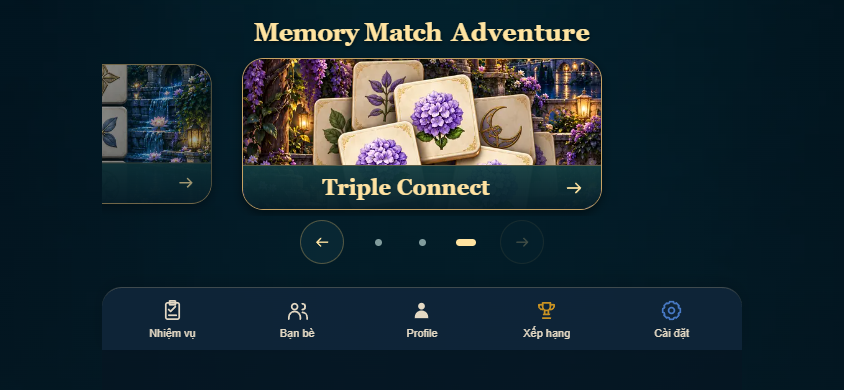
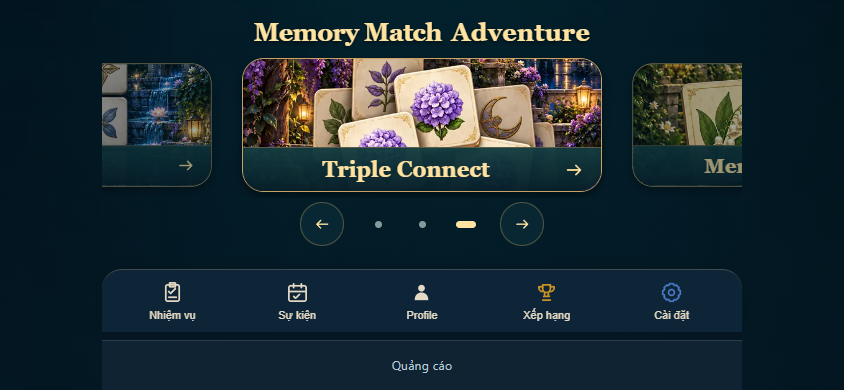
test: verify looping home and versioned portrait artwork

diff --git a/tests/ui/home-menu.spec.js b/tests/ui/home-menu.spec.js
@@ -19,6 +19,8 @@ for (const viewport of [{ width: 320, height: 740 }, { width: 412, height: 915 }
   const root = page.locator('.game-selector'), choices = root.locator('.game-selector__choice');
   await expect(choices).toHaveCount(3); await expect(root.locator('.menu-description')).toHaveCount(0);
   await expect.poll(() => root.locator('.game-selector__art').evaluateAll(els => els.every(im => im.complete && im.naturalWidth > 0))).toBe(true);
+  await expect(root.locator('[data-game-id="memory-match"] img')).toHaveAttribute('src', /memory-match-v2\.webp$/);
+  expect(await root.locator('[data-game-id="memory-match"] img').evaluate(im => [im.naturalWidth, im.naturalHeight])).toEqual([576, 768]);
   const footer = await root.locator('.adventure-footer').boundingBox();
   expect(footer.width).toBe(Math.min(viewport.width, 640));
   for (let i = 0; i < 3; i++) {

diff --git a/js/gameSelector.js b/js/gameSelector.js
@@ -23,7 +23,7 @@ import { mountAdventureMap } from "./adventureMap.js";
 import { decorateAdventureMenu } from "./appNavigation.js";
 
 const HOME_ART = Object.freeze({
-  'memory-match': 'memory-match.webp',
+  'memory-match': 'memory-match-v2.webp',
   'link-connect': 'link-connect.webp',
   'triple-connect': 'triple-connect.webp',
 });

diff --git a/scripts/prepare-home-menu-assets.py b/scripts/prepare-home-menu-assets.py
@@ -8,11 +8,11 @@ root = Path(__file__).resolve().parents[1]
 source = root / 'docs/design/home-assets/masters'
 target = root / 'public/assets/images/home'
 target.mkdir(parents=True, exist_ok=True)
-assets = {'memory-match': ('memory-match-v2.png', (576, 768)), 'link-connect': ('link-connect-v1.png', (576, 720)), 'triple-connect': ('triple-connect-v1.png', (576, 720))}
+assets = {'memory-match': ('memory-match-v2.png', 'memory-match-v2.webp', (576, 768)), 'link-connect': ('link-connect-v1.png', 'link-connect.webp', (576, 720)), 'triple-connect': ('triple-connect-v1.png', 'triple-connect.webp', (576, 720))}
 records = []
-for game, (filename, size) in assets.items():
+for game, (filename, runtime, size) in assets.items():
     master = source / filename
-    output = target / f'{game}.webp'
+    output = target / runtime
     with Image.open(master) as original:
         original_size = original.size
         image = original.convert('RGB')

diff --git a/CONTEXT.md b/CONTEXT.md
@@ -6,19 +6,21 @@ Người dùng đã chọn tự xuất bản website và thông điệp AdMob ng
 
 ## Sản phẩm
 
+- `HOME_CAROUSEL_LOOP_PLAN.md` hoàn tất: Home nối vòng cảhai chiều bằng cùng3node; modulo cho arrows/keyboard, DOM rebase tại native scrollend và giữ focus, không clone/RAF loop. Memory được imagegen tích hợp vẽ lại portraitv2 576×768, URL có phiên bản để tránh cache ngang cũ; tổng3ảnh323.366bytes. Root19/19, review14/14 +cache1/1, regression31ca có kết quả đạt, gate ảnh/UI cuối14/14, check/build web/Android pass. Phase1commitabc5696; QA: `docs/design/home-carousel/QA.md`. Không đổi save/API/catalog, không deploy/APK; S22 Ultra thật còn chờ.
+
 - Web đã bổ sung banner tĩnh **Quảng cáo mô phỏng** ở Home/map theo yêu cầu16/10, dùng chung navigation/blocker/lifecycle với Android. Vùng60px + gap28px, ẩn modal/tab/gameplay/nền/nhập chữ; không gọi Google hoặc đổi save/Auth/API. Native regression9/9, web review độc lập4/4, production smoke1/1, check/build web/build Android đạt; ảnh và kết quả ở `docs/ads/QA.md`. Chưa deploy, APK đã bàn giao giữ nguyên.
 
 - Tab Sự kiện thay Bạn bè ngày2026-10-16: action events, tiêu đề/nhãn Sự kiện, biểu tượng lịch. Hiện Sắp ra mắt, chưa triển khai tính năng sự kiện. Giữ nền courtyard hiện có và lifecycle chung; không đổi save/schema/Auth. UI36/36, review độc lập3/3, check/build web/Android pass; QA tại `docs/design/app-tabs/QA.md`.
 
 - Profile đã bỏ dòng “Tính từ…” theo yêu cầu ngày2026-10-16; chỉ hiển thị ngày tham gia/tạo hồ sơ và tổng thời gian chơi. trackedSince/counter vẫn giữ nội bộ, không đổi service/schema/save. UI5/5, review độc lập1/1, check/build web/Android pass. Ảnh và bằng chứng ở `docs/design/app-tabs/QA.md`.
 
-- `HOME_CAROUSEL_PLAN.md` hoàn tất: Home một trò ở giữa, vuốt trái/phải, hé trò hai bên; mũi tên/chấm và bàn phím. Native scroll-snap, scope sở hữu frame/observer/listener, không clone/tự chạy; giữ art/save/catalog/navigation và nội dung tab/popup. Phase1 commit665dafb. Home/registry17ca, regression52/52, review cuối12/12 và touch lặp5/5 đạt; check/build web/Android pass. QA: `docs/design/home-carousel/QA.md`. Không còn gate triển khai active; S22 Ultra thật còn chờ.
+- `HOME_CAROUSEL_PLAN.md` là hồ sơ carousel ban đầu (đã nối vòng theo kế hoạch mới): Home một trò ở giữa, vuốt trái/phải, hé trò hai bên; mũi tên/chấm và bàn phím. Native scroll-snap, scope sở hữu frame/observer/listener, không clone/tự chạy; giữ art/save/catalog/navigation và nội dung tab/popup. Phase1 commit665dafb. Home/registry17ca, regression52/52, review cuối12/12 và touch lặp5/5 đạt; check/build web/Android pass. QA: `docs/design/home-carousel/QA.md`. Không còn gate triển khai active; S22 Ultra thật còn chờ.
 
 - Popup Thử thách/Vô tận của cả3trò đã đồng bộ với popup màn Hành trình: xem thông tin màn1 rồi bấm Chơi, không chọn độ khó; thời gian/mục tiêu/gợi ý/khay/chủ đề theo config/profile. Vô tận ghi Không giới hạn, không lặp popup intro. Hủy không đổi save/session/độ khó thường; submit có guard/retry. QA45ca có kết quả đạt, review độc lập14/14; check/build web/build Android pass. Không đổi save schema/luật chơi. Chi tiết: `docs/design/special-mode-preview/QA.md`.
 
 - Active: `ADS_APK_TEST_PLAN.md` — phase0–4 đã đạt: chỉ banner Home/map, giữ `com.memorymatch.adventure`, bảo vệ trẻ em cho mọi người chơi, không hỏi tuổi/không cá nhân hóa, nội dung G. Unit15/15, UI71/71 + chạy lại ads9/9, check/build web/Android/APK và review độc lập đạt. Không đổi save/API/Auth. APK debug đã tạo/cài giả lập; phase5 còn chờ thông điệp AdMob riêng và trang quyền riêng tư công khai: SDK hiện chặn request vì app chưa có form. Đã xác nhận đúng App ID/unit và đặt mức G riêng trên AdMob; không deploy website. S22 Ultra/Test Ad thật/Auth APK/hiệu suất chưa xác minh. Chi tiết `docs/ads/QA.md`, hướng dẫn dễ hiểu `docs/ads/HUONG_DAN_THU_APK.md`.
 
-- `HOME_MENU_IMPLEMENTATION_PLAN.md` là hồ sơ Home bố cục1+2 ngày2026-10-15, đã được thay bằng carousel ngày2026-10-16. Ba WebP riêng tổng349.418bytes tiếp tục dùng; nguồn art ở `docs/design/home-assets/README.md`, QA cũ ở `docs/design/home-menu/QA.md`. Ornament ảnh trên pause popup đã gỡ theo yêu cầu.
+- `HOME_MENU_IMPLEMENTATION_PLAN.md` là hồ sơ Home bố cục1+2 ngày2026-10-15, đã được thay bằng carousel ngày2026-10-16. Link/Triple tiếp tục dùng; Memory hiện thay portraitv2 (tổng3ảnh323.366bytes); nguồn art ở `docs/design/home-assets/README.md`, QA cũ ở `docs/design/home-menu/QA.md`. Ornament ảnh trên pause popup đã gỡ theo yêu cầu.
 
 - Sheet12vùng nền trò/popup/tiêu đề/khung ở `docs/design/home-assets/README.md` chỉ là nguồn tham khảo; runtime Home dùng ba tranh riêng có master lớn hơn, không dùng sheet làm nền cả màn. Carousel hiện không dùng flourish tiêu đề, không tạo thêm art.
 

diff --git a/docs/design/home-carousel/QA.md b/docs/design/home-carousel/QA.md
@@ -2,7 +2,7 @@
 
 ## Kết quả
 
-Một trò nằm giữa, hé trò hai bên, vuốt trái/phải để đổi. Bấm card mở đúng bản đồ; mũi tên/chấm và bàn phím là phương án tương đương. Không thêm hướng dẫn hoặc thuật ngữ nội bộ vào sản phẩm. Reuse3WebP cũ349.418bytes, không sinh thêm ảnh; bỏ flourish Home, đơn giản viền và nhãn. Dock/ad slot, tab/popup, catalog và save không đổi.
+Một trò nằm giữa, hé trò hai bên, vuốt trái/phải để đổi. Bấm card mở đúng bản đồ; mũi tên/chấm và bàn phím là phương án tương đương. Không thêm hướng dẫn hoặc thuật ngữ nội bộ vào sản phẩm. Home hiện nối vòng hai chiều bằng cùng3node; Memory đã vẽ lại portraitv2, tổng3WebP323.366bytes; bỏ flourish Home, đơn giản viền và nhãn. Dock/ad slot, tab/popup, catalog và save không đổi.
 
 ## Phương án và ownership
 
@@ -13,7 +13,7 @@ Dùng native scroll-snap thay custom drag để trình duyệt sở hữu moment
 - Home12/12 + registry5/5 đạt. Native CDP touch swipe trái→trái→phải chọn đúng trò mà không mở map; arrows/dots/Arrow/Home/End, Enter, resize và30lần đổi nhanh.
 - 320×740,412×915,844×390,1024×900: game chính nằm đúng tâm, đầy đủ tên và controls, không tràn wrapper hoặc chồng dock.320×568/568×320: title và controls đều cuộn tới được.
 - Fixture4trò vào cùng carousel; lỗi tải art vẫn có tên/nút và bàn phím mở đúng game.
-- Reduced-motion và normal-motion, điều hướng giữa transition đều cleanup. [30cycles](qa/home-30-cycles.json):28listener/0timer/0frame/0animation khi nghỉ; owner cũ về0, progress không đổi, một Home/ba card.
+- Reduced-motion và normal-motion, điều hướng giữa transition đều cleanup. [30cycles](qa/home-30-cycles.json):26listener/0timer/0frame/0animation khi nghỉ; owner cũ về0, progress không đổi, một Home/ba card.
 - Lỗi phát hiện và sửa: carousel co theo intrinsic-width do wrapper align center cũ → explicit width/stretch; padding title cộng chiều rộng → border-box và assertion tâm/tràn; center dọc có nguy cơ clip trên viewport thấp → auto margins, overflow an toàn.
 - Hồi quy52/52 đạt: app-tabs, menu.landscape, navigation-screens, adventure-map; tab nền/exit/dock, cả3game và6lựa chọn mode special giữ đúng hành vi.
 - Lượt review đầu có một lần gesture test bắt vị trí giữa quán tính. Helper nay đăng ký/chờ native scrollend sau mỗi lần vuốt rồi mới kiểm tâm/trò cuối; vẫn giữ yêu cầu đúng trò kế bên, không sleep hoặc nới assertion. Lặp5/5 đạt, runtime không đổi.
@@ -25,3 +25,13 @@ Dùng native scroll-snap thay custom drag để trình duyệt sở hữu moment
 Cổng cuối: `npm run check`, `npm run build`, `npm run build:android` đều exit0. `git diff --check` đạt; không đổi API/schema/save.
 
 Không deploy hoặc build APK; S22 Ultra thật còn chờ, không tuyên bố FPS thiết bị từ kiểm tra desktop.
+
+## Nối vòng và ảnh portrait v2 — 2026-10-16
+
+Logical index giữ thứ tự catalog, DOM xoay khi native scrollend để đưa trò đang xem về giữa mà không clone. Arrows/ArrowLeft/Right modulo qua hai đầu; Home/End vẫn logical first/last. Chỉ reorder khi cần, resize giữ lựa chọn, hidden track không cập nhật từ geometry0. Bỏ focus→select listener để không reparent target trước pointerup; warm và explicit keyboard focus giữ nguyên. Sau rebase, focus trong track theo trò đang chọn. Không timer/loop RAF; scrollend cùng vị trí không phát sinh vòng lặp mới.
+
+Home14+registry5 đạt19/19;14native swipes (7mỗi chiều) qua cảhai ranh giới, tap hai sidepeek với normal-motion mở đúng game.100forward+100backward giữ nguyên3node, resource về baseline. Review độc lập14/14 approve. Ảnh mới đúng576×768/108670bytes; src versioned v2 +natural size đạt4/4viewport và review thêm1/1. Ảnh cũ ngang bị cắt đã được thay, xem [Memory412](qa/home-412-memory-match.png) và [landscape](qa/home-844-memory-match.png).
+
+Regression31ca có kết quả đạt:30lần đầu,1ca kết thúc context bị ENOENT do file trace trong test-results bị lượt chạy song song dọn. Không có assertion UI fail; chạy lại ca đó bằng thư mục TEMP riêng1/1 đạt. Các module/quy tắc quảng cáo do task khác quản lý, chỉ kiểm tương thích, không sửa trong task này. Test phía review cũng lưu outputTEMP riêng.
+
+Gate cuối sau cập nhật URLv2 và nhãn Quảng cáo của task song song: Home14/14 đạt; ảnh bàn giao đã xem, không còn từ chỉ trạng thái thử nghiệm. npm run check (gồm15ads unit), npm run build và npm run build:android đều exit0. Một lượt đo Triple p95=23.37ms vượt20ms trong lúc chạy song song; không sửa script/ngưỡng, đo riêng19.99ms đạt và fullcheck cuối19.48ms đạt. Đây là Node desktop, không phải FPS mobile. git diff --check đạt; không đổi API/schema/save/catalog.

diff --git a/ARCHITECTURE.md b/ARCHITECTURE.md
@@ -197,7 +197,7 @@ Pair snapshot giữ seed/theme, bàn thật, score/moves/misses/matched, lucky h
 
 `gameExitDialog.js` giữ pause/handoff owner của ba game. Tiếp tục dùng default close/onClose; Chơi lại/Lượt mới và Thoát game giữ async busy guard và callback cũ. Cài đặt chỉ handoff sau close. `styles/modals.css` sở hữu palette dialog Vườn đêm, nút44px, close/focus/reduced-motion và pause layout; ornament ảnh trong pause đã gỡ theo yêu cầu người dùng, tiêu đề thu gọn, không thêm ảnh hay animation loop. Exit bản đồ vẫn thuộc navigation/header, góc56×60px và safe-area, không nằm trong map scroll.
 
-Header/exit chung áp dụng mọi `adventure-screen[data-screen]`, gồm Cửa hàng/Bộ sưu tập; không giữ whitelist khiến screen mới rơi về nút tròn. `styles/shop.css` sở hữu slot Xu ở giữa header, giới hạn chiều rộng số dài để không chạm tên/nút thoát; số và accessible label giữ đúng nguồn. `mainmenu.js` vẫn dùng gameId cho catalog/equip, chỉ bỏ tên game lặp trong title Bộ sưu tập. Home hướng1 dùng native buttons/DOM title với ba ảnh WebP trong `public/assets/images/home/`; `styles/home-menu.css` là owner selector duy nhất, thay các selector Home cũ trong menu/adventure. Scope trang sở hữu click/focus/pointerenter/error listener; ảnh lỗi được ẩn, tên và nút vẫn sử dụng được. Home hiện dùng native horizontal scroll-snap: một trò ở giữa, hé trò hai bên, thêm trò vào cùng dãy không clone. Native browser sở hữu touch/momentum/cancel, không custom drag/timer hoặc RAF loop. Scope sở hữu các listener, RAF gộp scroll khi có sự kiện và ResizeObserver có disconnect; chỉ số lấy theo tâm card trong track, transform không tham gia vị trí snap. Mũi tên/chấm/ArrowLeft/ArrowRight/Home/End có cùng select path, roving tabIndex và focus. Resize giữ trò đang chọn; reduced-motion tắt transition. Wrapper giới hạn640px và auto margins cho màn thấp cuộn tới cả title/controls. Master PNG ở docs, generator `scripts/prepare-home-menu-assets.py` đóng gói tổng349.418bytes; không đổi navigation/save/catalog.
+Header/exit chung áp dụng mọi `adventure-screen[data-screen]`, gồm Cửa hàng/Bộ sưu tập; không giữ whitelist khiến screen mới rơi về nút tròn. `styles/shop.css` sở hữu slot Xu ở giữa header, giới hạn chiều rộng số dài để không chạm tên/nút thoát; số và accessible label giữ đúng nguồn. `mainmenu.js` vẫn dùng gameId cho catalog/equip, chỉ bỏ tên game lặp trong title Bộ sưu tập. Home hướng1 dùng native buttons/DOM title với ba ảnh WebP trong `public/assets/images/home/`; `styles/home-menu.css` là owner selector duy nhất, thay các selector Home cũ trong menu/adventure. Scope trang sở hữu click/focus/pointerenter/error listener; ảnh lỗi được ẩn, tên và nút vẫn sử dụng được. Home hiện dùng native horizontal scroll-snap nối vòng: một trò ở giữa, hé trò hai bên; logical index theo catalog, DOM xoay tại scrollend để đưa lựa chọn về slot giữa, không clone/tăng node theo số vòng. Arrows/Left/Right dùng modulo, Home/End vẫn logical first/last. Focus pointer chỉ warm, không reorder trước pointerup; explicit keyboard select+focus và focus sau rebase giữ ổn định. Hidden track không đọc geometry0 để đổi lựa chọn. Native browser sở hữu touch/momentum/cancel, không custom drag/timer hoặc RAF loop. Scope sở hữu các listener, RAF gộp scroll khi có sự kiện và ResizeObserver có disconnect; chỉ số lấy theo tâm card trong track, transform không tham gia vị trí snap. Mũi tên/chấm/ArrowLeft/ArrowRight/Home/End có cùng select path, roving tabIndex và focus. Resize giữ trò đang chọn; reduced-motion tắt transition. Wrapper giới hạn640px và auto margins cho màn thấp cuộn tới cả title/controls. Master PNG ở docs, generator `scripts/prepare-home-menu-assets.py` đóng gói tổng323.366bytes; Memory portraitv2 576×768 có URL memory-match-v2.webp để tránh immutable/cache-first giữ bản ngang cũ; không đổi navigation/save/catalog.
 
 Popup trước ván: `adventureMap.js` dùng cùng `adventure-level-modal`/owner cho màn thường và Thử thách/Vô tận. Special cố định màn1, không có radio độ khó; chỉ nút Chơi gọi launch với skipIntro để tránh popup trùng. `adventurePreview.js` là đọc thuần, hỗ trợ sáu mode từ config/layout/stage, không ghi item/session hoặc tiến độ. Hủy giữ view.mode Hành trình và bản lưu; modal owner hủy listener/placement/focus, submit guard giữ đường retry khi launch thất bại.
 

diff --git a/HOME_CAROUSEL_LOOP_PLAN.md b/HOME_CAROUSEL_LOOP_PLAN.md
@@ -5,6 +5,8 @@ Phạm vi: vuốt/mũi tên/bàn phím qua ranh giới đầu-cuối liên tục
 So sánh3bản sao dãy với xoay cùng3node: chọn xoay node khi native scrollend, đưa lựa chọn về slot giữa trong cùng lượt render. Không clone hoặc tăng DOM/cache theo số vòng; hỗ trợ catalog từ3trò trở lên (hiện có3). Cards array giữ thứ tự catalog làm nguồn logical index; DOM order chỉ biểu diễn. Mũi tên/ArrowLeft/Right modulo; Home/End là logicalfirst/last; ResizeObserver giữ lựa chọn, focus nằm trong track chuyển sang trò đang chọn sau rebase. Không thêm drag engine/timer/animation loop, dùng native snap/touch và reduced-motion cũ.
 
 Phase1 (hoàn tất): imagegen redraw portrait, masterv2/WebP qua source generator ≤350KB cả3ảnh; loop renderer + tests boundary/real touch/lặp nhiều vòng/resize/focus/fallback4game. Kiểm ảnh thật, commit.
-Phase2: regression navigation/ads liên quan, review độc lập, check/build web/Android, CONTEXT/ARCHITECTURE/QA và commit. Không deploy/build APK. Thiết bị S22 Ultra thật còn chờ như trước.
+Phase2 (hoàn tất): regression navigation/ads liên quan, review độc lập, check/build web/Android, CONTEXT/ARCHITECTURE/QA và commit. Không deploy/build APK. Thiết bị S22 Ultra thật còn chờ như trước.
 
 Phase1:19/19 đạt (Home14+registry5), gồm14swipes qua hai đầu,100lượt mỗi chiều không thêm node, normal-motion tap sidepeek, resize/focus/fallback4game/30cycles. Focus→select từng làm target đổi vị trí trước pointerup; đã bỏ listener đó, keyboard vẫn select+focus rõ ràng. Memory masterv2 1086×1448, WebP576×768/108670bytes, tổng3ảnh323366bytes≤350KB. Đã kiểm ảnh portrait và crop landscape.
+
+Phase2: regression31ca có kết quả đạt (30lần đầu,1traceENOENT do lượt chạy song song; chạy riêng1/1 đạt), review độc lập14/14 +cacheURL1/1 approve. Cache immutable dùng memory-match-v2.webp, public chỉ giữ3ảnh; masterv1 giữ hồ sơ. Gate cuối Home14/14 và4viewport src/natural size pass; npm run check gồm15ads unit, build web và build:android đều exit0. Một lượt p95 Triple23.37>20 khi có chạy song song; script giữ nguyên, đo riêng19.99 và fullcuối19.48 đạt. Không đổi API/save/catalog; không deploy/APK. Phase1commitabc5696; phase2 là commit chứa bản nghiệm thu này.
